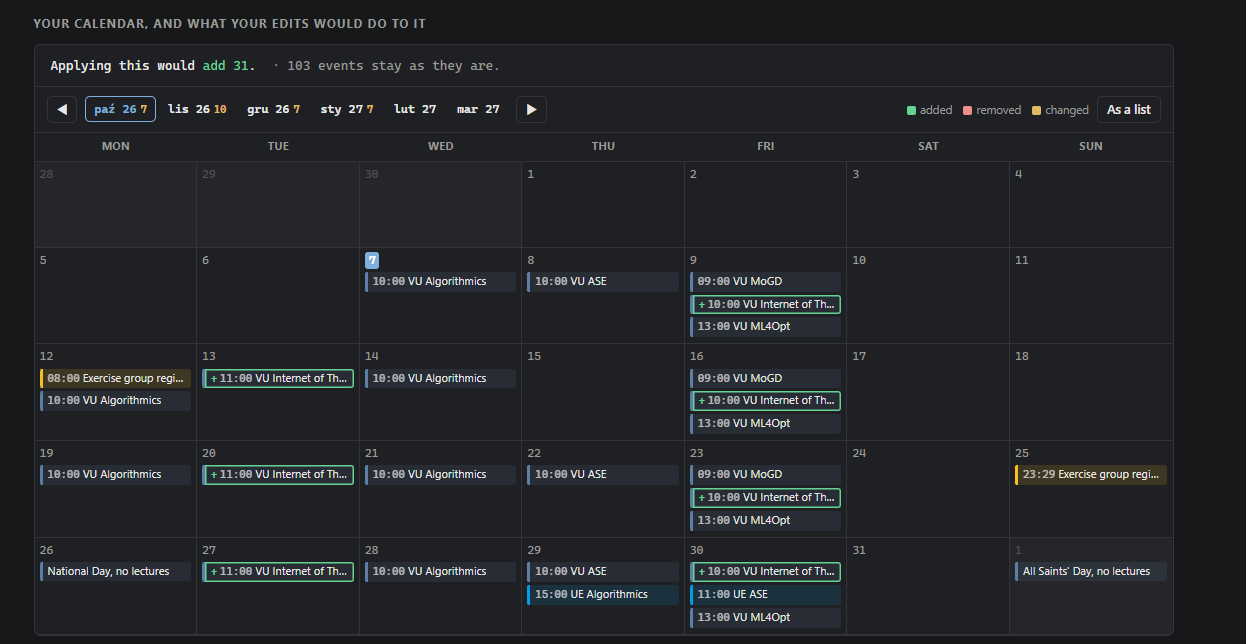
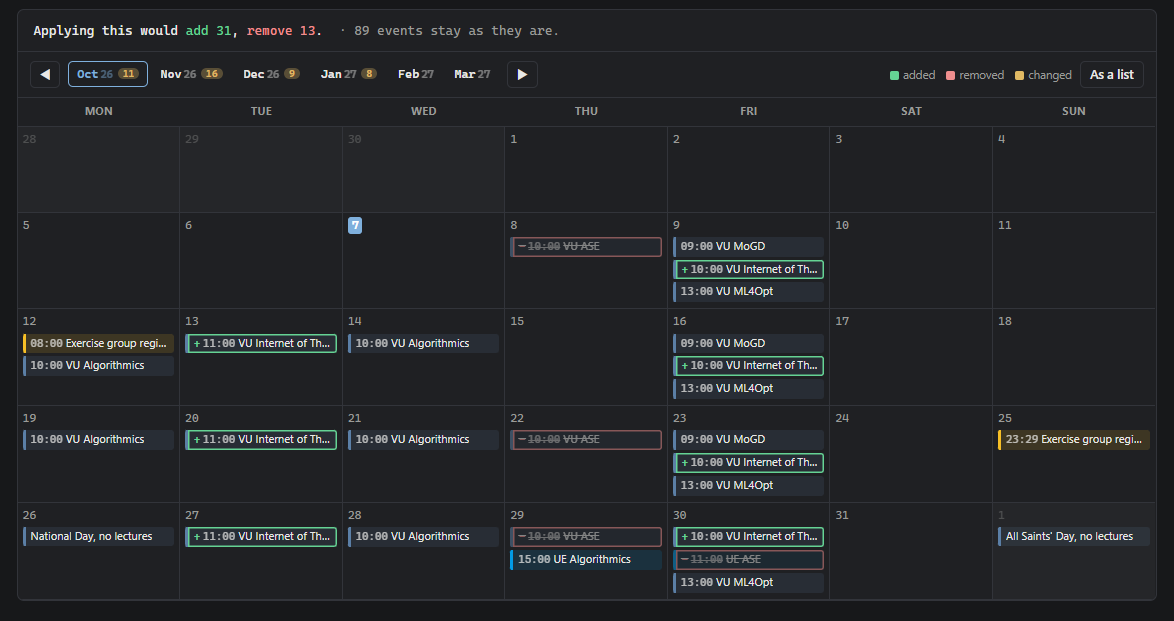
Say what the column does instead of how it is implemented, and show the help
"Scrape" named the mechanism, not the thing you get. It is now "Exams", because
exam dates are what ticking it puts on your calendar - the rest of what it does,
retakes and registration windows, does not fit in a column header and belongs in
the explanation.

Which is the second half of this. Those headers already carried title attributes
with exactly that explanation, and it was no use to anyone: a tooltip nobody knows
is there explains nothing. Each column now has a visible "?" that shows its
balloon on hover or keyboard focus, so a checkbox can be read before it is ticked
rather than after.

The balloons open downward, because the panel clips what leaves it and the headers
sit at its top edge; the two rightmost anchor to their right edge for the same
reason.

Also the screenshot, now showing the removals as well as the additions - one
course added and another dropped, 31 events appearing and 13 going - with the
caption and the README's description of the columns brought in line.

diff --git a/tisscal/static/index.html b/tisscal/static/index.html
@@ -107,6 +107,24 @@
   .months button .n { font-size: 10px; font-weight: 700; margin-left: 5px;
                       padding: 0 5px; border-radius: 7px; vertical-align: 1px;
                       background: color-mix(in srgb, var(--mod) 30%, transparent); }
+  .help { display: inline-flex; align-items: center; justify-content: center;
+          width: 14px; height: 14px; margin-left: 5px; border-radius: 50%;
+          border: 1px solid var(--line); color: var(--dim); cursor: help;
+          font: 700 9.5px/1 var(--mono); vertical-align: 1px; position: relative; }
+  .help:hover, .help:focus-visible { border-color: var(--accent); color: var(--accent);
+                                     outline: none; }
+  .help::after {
+    content: attr(data-tip); position: absolute; top: calc(100% + 8px); left: 50%;
+    transform: translateX(-50%); width: 236px; padding: 8px 10px; z-index: 20;
+    background: var(--ink); color: var(--bg); border-radius: 5px;
+    font: 400 11.5px/1.45 system-ui, sans-serif; letter-spacing: 0; text-transform: none;
+    text-align: left; white-space: normal; opacity: 0; pointer-events: none;
+    transition: opacity .1s;
+  }
+  .help:hover::after, .help:focus-visible::after { opacity: 1; }
+  /* Near the right edge the balloon would be clipped by the panel, so anchor it instead. */
+  .help.tip-right::after { left: auto; right: -4px; transform: none; }
+
   .legend { display: flex; gap: 11px; font-size: 11.5px; color: var(--dim); }
   .legend .key::before { content: ""; display: inline-block; width: 9px; height: 9px;
                          border-radius: 2px; margin-right: 4px; vertical-align: -1px; }
@@ -182,12 +200,21 @@
   <h2>Courses in the feed</h2>
   <div class="panel"><table>
     <thead><tr>
-      <th class="mid" title="Keep this course's events on the calendar">Sync</th>
-      <th class="mid" title="Read this course's TISS page for exam dates and registration windows">Scrape</th>
-      <th>Course</th><th>Calendar name</th>
-      <th class="num" title="Events this course has in the TISS iCal feed">Feed</th>
-      <th class="num" title="Events it would have on the calendar. Can exceed the feed count: exams and registration reminders are read off the course page, not the feed.">Calendar</th>
-      <th>Next</th>
+      <th class="mid">Sync<span class="help" tabindex="0" data-tip="Put this course's
+        lectures and exercise slots on the calendar.">?</span></th>
+      <th class="mid">Exams<span class="help" tabindex="0" data-tip="Also read this course's
+        TISS page, which the feed does not cover: exam and retake dates, and the windows
+        when you can register for them.">?</span></th>
+      <th>Course</th>
+      <th>Calendar name<span class="help" tabindex="0" data-tip="What it is called on the
+        calendar. Leave it empty to keep the TISS name without its course number.">?</span></th>
+      <th class="num">Feed<span class="help" tabindex="0" data-tip="How many events this
+        course has in the TISS feed.">?</span></th>
+      <th class="num">Calendar<span class="help tip-right" tabindex="0" data-tip="How many it
+        would have on the calendar. More than the feed is normal: exams and registration
+        reminders come off the course page, and are counted separately.">?</span></th>
+      <th>Next<span class="help tip-right" tabindex="0" data-tip="Its next event that has not
+        happened yet.">?</span></th>
     </tr></thead>
     <tbody id="courses"></tbody>
   </table></div>

diff --git a/README.md b/README.md
@@ -11,12 +11,12 @@ it does that every morning without your laptop being on.
 You pick what gets synced on a local page that shows you the month before and after your
 change, so nothing reaches the calendar that you have not seen first.
 
-![The interface: a month of the calendar with the effect of ticking one more course drawn
-over it — new events outlined in green, and a strip of months saying how many fall in
-each](docs/interface.png)
+![The interface: a month of the calendar with the effect of a settings change drawn over it —
+events that would be added outlined in green, ones that would go struck through in red, and
+a strip of months saying how many changes fall in each](docs/interface.png)
 
-*Ticking one course here would add 31 events. The grid says where they land before anything
-is written.*
+*One course added, another dropped: 31 events would appear and 13 would go. The grid says
+where, before anything is written.*
 
 Python 3.11 or newer.
 
@@ -136,10 +136,13 @@ One local page, four parts.
 course you have just been admitted to shows up here before it is anywhere else, highlighted.
 Per course you can tick:
 
-- **Sync** — put its events on the calendar
-- **Scrape** — also read its TISS page for exam dates and registration windows
+- **Sync** — put its lectures and exercise slots on the calendar
+- **Exams** — also read its TISS page, which the feed does not cover: exam and retake
+  dates, and the windows when you can register for them
 - **Calendar name** — what it is called on the calendar, e.g. `VU MoGD` instead of
   `192.161 VU Management of Graph Data`
+
+Every column header carries a **?** explaining what ticking it does.
 
 **What gets synced** — the switches that are not per course: reminder times, whether past
 events are pruned, which registration windows to be reminded about. Each one shows the
